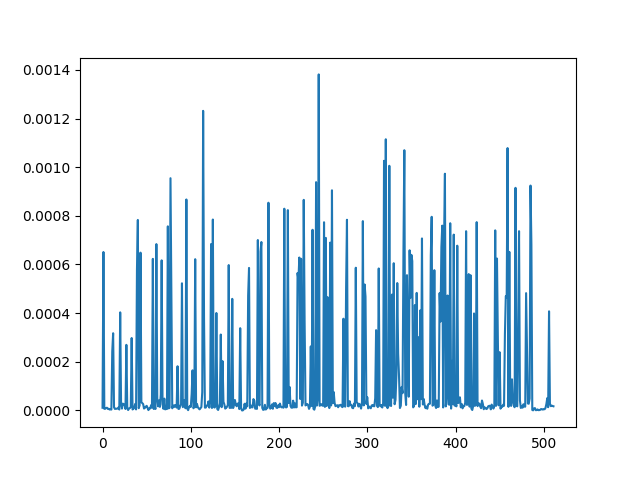
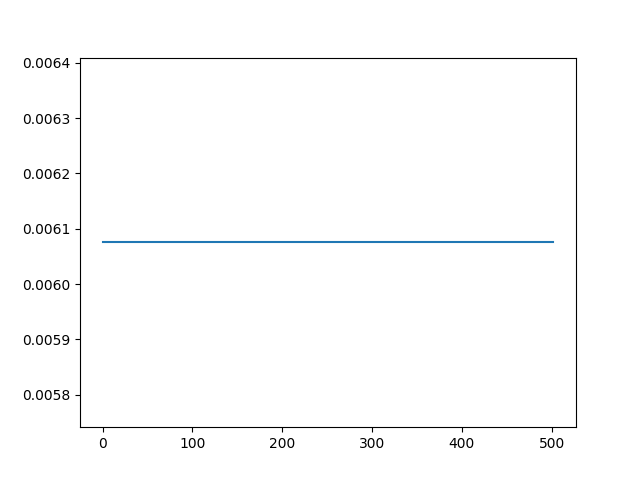
Added subsampling

diff --git a/ensemble.py b/ensemble.py
@@ -5,6 +5,7 @@ from typing import List
 import torch.nn as nn
 import torch.nn.functional as F
 import numpy as np
+from math import comb
 import copy
 import matplotlib.pyplot as plt
 from scipy.optimize import bisect
@@ -15,14 +16,14 @@ import tqdm
 class Ensemble():
     def __init__(self, model_dirs, model_name, tokenizer,
                 device="cpu", q_budget=1024, alpha=2, eps=2, delta=1e-5,
-                target_mult=1.0, p_value=1.0
+                p=1.0
     ):
         self.device = device
         self.model_name = model_name
         self.q_budget = q_budget
         self.alpha = alpha 
         self.eps = eps
-        self.p_value = p_value
+        self.p = p
         self.delta = delta
         self.pub_model = AutoModelForCausalLM.from_pretrained(self.model_name,
                                                      pad_token_id=tokenizer.eos_token_id).to(
@@ -32,15 +33,18 @@ class Ensemble():
         self.lambdas = np.array([0 for _ in range(self.num_ensemble)])
         self.lambda_history = []
         self.priv_loss = [] 
-        self.target = np.log(self.num_ensemble * np.exp((self.alpha-1) * self.eps / self.q_budget)
+
+        if p < 1.0:
+            a = 1 
+            while self.subsample_eps(a * self.eps / self.q_budget, self.p, self.alpha) < self.eps / self.q_budget:
+                a += 1
+            print("a value", (a-1))
+            self.eps = self.eps * (a-1)
+
+        self.target = np.log(self.num_ensemble * np.exp((self.alpha-1) * alpha * self.eps / self.q_budget)
                         + 1 - self.num_ensemble) / (4*(self.alpha - 1))
-        #self.target = np.log(self.num_ensemble * np.exp(self.eps / self.q_budget)
-        #                     + 1 - self.num_ensemble) / 2
         print(f"Target value {self.target:2f}")
-        self.beta = 0.01
-        self.sigma = np.sqrt((self.q_budget * (3 * self.alpha + 2)) / self.eps)
         self.lora_ensemble = 0 
-        self.pairs = [(i, i+1) for i in range(0, self.num_ensemble, 2)]
         for i, dir in enumerate(self.model_dirs):
             if i == 0:
                 self.lora_ensemble = PeftModel.from_pretrained(copy.deepcopy(
@@ -50,6 +54,11 @@ class Ensemble():
                                                             ).to(self.device)
             else:
                 self.lora_ensemble.load_adapter(dir, adapter_name=f"lora-{i}")
+    
+    def subsample_eps(self, eps, p, alpha):
+        return 1/(alpha-1) * np.log((1-p)**(alpha-1) * (1+ (alpha-1) * p) 
+                                    + np.sum([comb(alpha, k) * (1-p)**(alpha-k) * p**k *
+                                              np.exp((k-1) * eps * k) for k in range(2, alpha+1)]))
 
     @staticmethod
     def renyiDiv(p, q, alpha=float('inf')):
@@ -90,28 +99,34 @@ class Ensemble():
         logits[indices_to_remove] = filter_value
 
         return logits
+    
+    def subsample(self, candidates, p):
+        sampled = []
+        for c in candidates:
+            if np.random.uniform() < p:
+                sampled.append(c)
+        #sampled = np.random.choice(self.num_ensemble, int(p*self.num_ensemble))
+        return sampled
 
     def priv_pred(self, output_dists):
+        sampled = self.subsample([i for i in range(self.num_ensemble)], self.p)
+        if len(sampled) == 0:
+            return output_dists[self.num_ensemble]
         self.lambdas = [self.lambda_solver_bisection(output_dists[i],
                                                     output_dists[self.num_ensemble],
-                                                    ) for i in range(self.num_ensemble)]
+                                                    )for i in sampled]
+                                                    #) for i in range(self.num_ensemble)]
         #self.lambdas = [0.1 for i in range(self.num_ensemble)]
-        p_pub = output_dists[self.num_ensemble]
         self.lambda_history.append(np.mean([lambd for lambd in self.lambdas]))
-        mixed_dists = [self.mix(output_dists[i], output_dists[self.num_ensemble], self.lambdas[i])
-                       for i in range(self.num_ensemble)]
+        mixed_dists = [self.mix(output_dists[i], output_dists[self.num_ensemble], self.lambdas[lamb_i])
+                       #for i in range(self.num_ensemble)]
+                       for lamb_i, i in enumerate(sampled)]
         mixed_dists = torch.stack(mixed_dists)
         ensemble_dist = mixed_dists.mean(dim=0) 
-        loss = self.data_dependent_loss(mixed_dists, alpha=self.alpha)
-        '''
-        for i in range(self.num_ensemble):
-            p_i = torch.cat((mixed_dists[:i, :], mixed_dists[i+1:, :])).mean(dim=0)
-            eps = self.renyiDiv(2*ensemble_dist - p_i, ensemble_dist)
-            print(i, eps)
-            #print(i, self.data_independent_loss(mixed_dists[i], p_pub, self.alpha))
-        '''
-        if loss > self.eps/(self.q_budget):
-            print(loss)
+        #loss = self.data_dependent_loss(mixed_dists, alpha=self.alpha)
+        loss = self.subsample_eps(self.eps/self.q_budget, self.p, self.alpha)
+        #if loss > self.eps/(self.q_budget):
+        #    print(loss)
         self.priv_loss.append(loss) 
         return ensemble_dist
 
@@ -179,7 +194,7 @@ class Ensemble():
         def f(lambd):
             pred = self.mix(p, p_pub, lambd)
             eps = self.data_independent_loss(pred, p_pub, self.alpha)
-            return (eps - self.target)#self.eps/self.q_budget)
+            return (eps - self.target)
         if f(1) <= 0.0:
             lambd = 1 
         else:

diff --git a/prediction_experiments.py b/prediction_experiments.py
@@ -17,7 +17,6 @@ import numpy as np
 import math
 
 def main(args):
-    set_seed(0)
     #alpha = math.ceil(4 * np.log(1/args.delta) / (3*args.epsilon) + 1)
     alpha = args.alpha
     #epsilon = args.epsilon - np.log(1/args.delta)/(args.alpha-1)
@@ -33,6 +32,8 @@ def main(args):
 
     model_paths = [os.path.join(model_dir, f"lora-{args.model_name}-{i}-finetuned-wikitext-103-raw-v1")
                     for i in range(args.num_ensemble)]
+    #model_paths = [os.path.join(model_dir, f"lora-{args.model_name}-{i}-finetuned-{args.data_subset}")
+    #                for i in range(args.num_ensemble)]
     priv_ensemble = Ensemble(model_paths,
                              args.model_name,
                              tokenizer,
@@ -41,16 +42,15 @@ def main(args):
                              alpha=alpha,
                              eps=epsilon,
                              delta=args.delta,
-                             target_mult=args.target_multiplier,
-                             p_value=args.p_value)
+                             p=args.p)
 
     fine_tuned_model_dir = os.path.join("models", f"lora-{args.model_name}-finetuned-{args.data_subset}")#/checkpoint-3582")
     fine_tuned_model = PeftModel.from_pretrained(copy.deepcopy(pub_model),
                                                  fine_tuned_model_dir,
                                                  pad_token_id=tokenizer.eos_token_id).to(
                                                  args.device)
-    dp_fine_tuned_model = torch.load(os.path.join("models", f"lora-{args.model_name}-6.0-dp-finetuned-{args.data_subset}.pt")).to(args.device)
-    #dp_fine_tuned_model = torch.load(os.path.join("models", f"lora-{args.model_name}-{args.epsilon}-dp-finetuned-{args.data_subset}.pt")).to(args.device)
+    #dp_fine_tuned_model = torch.load(os.path.join("models", f"lora-{args.model_name}-6.0-dp-finetuned-{args.data_subset}.pt")).to(args.device)
+    dp_fine_tuned_model = torch.load(os.path.join("models", f"lora-{args.model_name}-{args.epsilon}-dp-finetuned-{args.data_subset}.pt")).to(args.device)
 
     seq_length = 512
     dataset = load_dataset(args.dataset, args.data_subset)
@@ -251,6 +251,7 @@ def top_k_filtering(logits, top_k, filter_value=-float("Inf")):
 
 
 if __name__ == "__main__":
+    set_seed(0)
     parser = argparse.ArgumentParser()
     parser.add_argument("--num_ensemble", type=int, default=8)
     parser.add_argument("--model_name", type=str, default="GPT2")
@@ -259,12 +260,11 @@ if __name__ == "__main__":
     parser.add_argument("--device", type=str, default="cuda:6")
     parser.add_argument("--seq_length", type=int, default=512)
     parser.add_argument("--query_budget", type=int, default=1024)
-    parser.add_argument("--target_multiplier", type=float, default=1.0)
     parser.add_argument("--epsilon", type=float, default=1.0)
-    parser.add_argument("--alpha", type=float, default=2)
+    parser.add_argument("--alpha", type=int, default=2)
     parser.add_argument("--delta", type=float, default=1e-5)
     parser.add_argument("--temperature", type=float, default=1.0)
-    parser.add_argument("--p_value", type=float, default=1.0)
+    parser.add_argument("--p", type=float, default=1.0)
     parser.add_argument("--e_value", type=float, default=0.01)
     parser.add_argument("--iters", type=int, default=1)
     parser.add_argument("--start", type=int, default=0)
